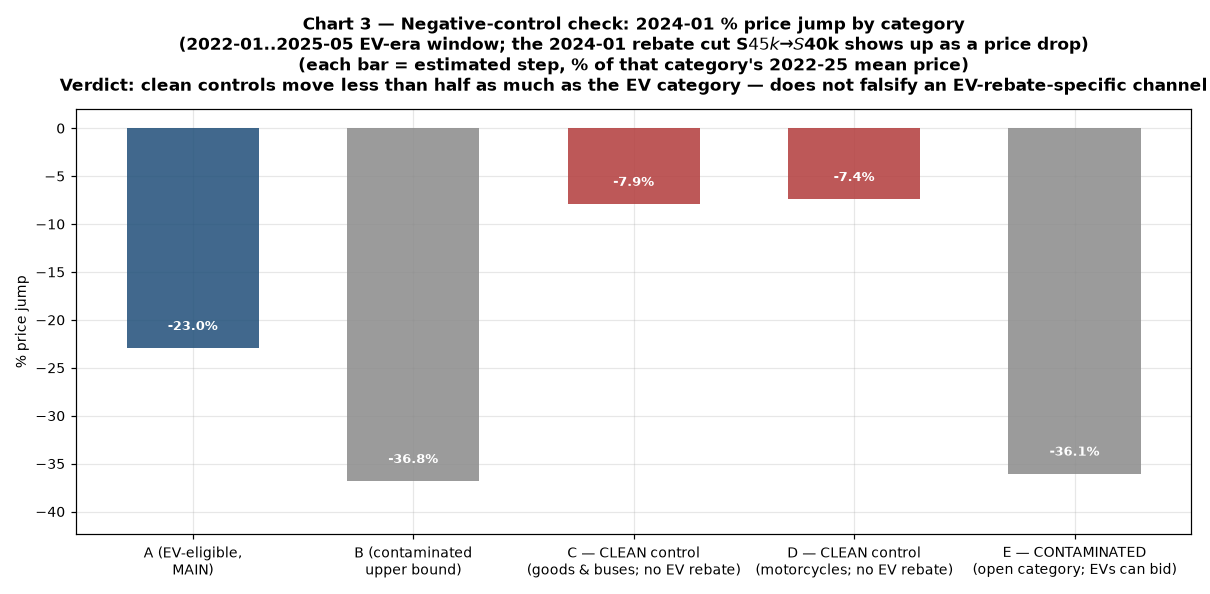
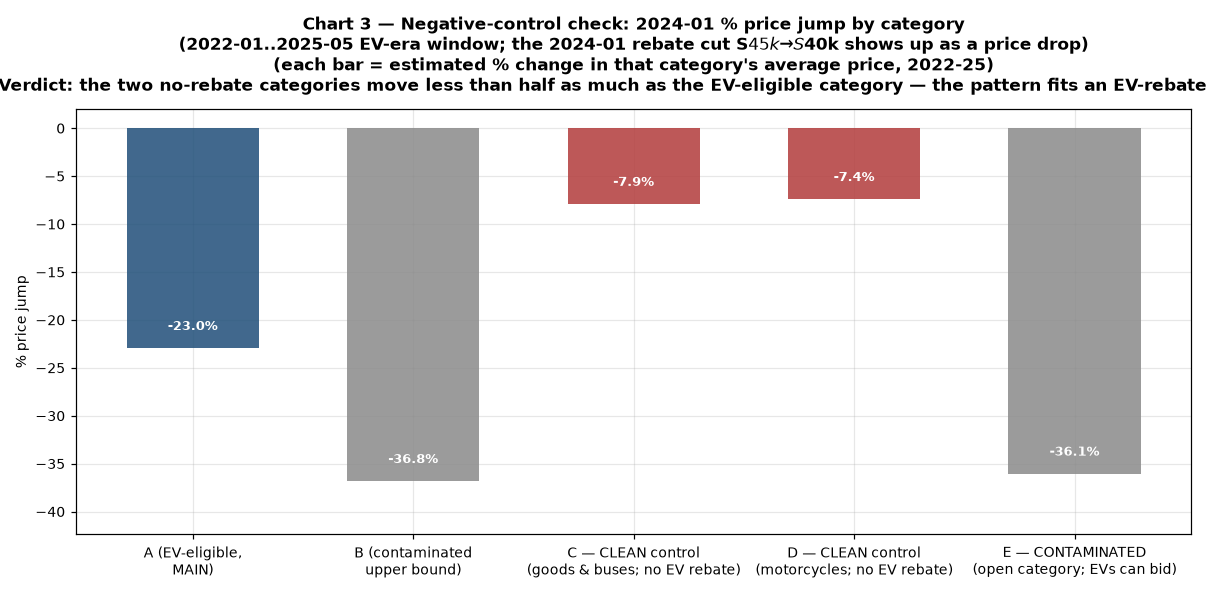
Plain language: replace 'step' and 'falsify' in README and chart titles
- README: 'rebate step' -> 'change to the rebate' (x5), 'the step itself'
  -> 'the Jan 2024 cut itself', 'for each step' -> 'for each link in the
  chain', 'the three rebate steps' -> 'the three changes to the rebate amount'
- Figure 3 verdict: 'clean controls do not falsify the EV-specific reading'
  -> plain explanation of what the pattern does and does not show
- Charts 2/3/7/8 titles: same replacements ('estimated % change in that
  category's average price', 'each link in the chain', 'EV-era rebate change')

Changed region(s): [[0.0, 0.0909, 1.0, 0.1515]]

diff --git a/src/13_charts.py b/src/13_charts.py
@@ -241,8 +241,8 @@ def _nc_verdict(nc: pd.DataFrame, term: str, scope: str) -> str:
     if abs(c) >= 0.5 * abs(a) and abs(d) >= 0.5 * abs(a):
         return ("market-wide common shock: both clean controls move at least "
                 "half as much as the EV category (NOT EV-rebate-specific)")
-    return ("clean controls move less than half as much as the EV category — "
-            "does not falsify an EV-rebate-specific channel")
+    return ("the two no-rebate categories move less than half as much as the "
+            "EV-eligible category — the pattern fits an EV-rebate effect")
 
 
 def chart02() -> None:
@@ -257,8 +257,8 @@ def chart02() -> None:
     _nc_panel(ax, nc, "reg_arffloor_zero_202201")
     ax.set_title(
         "Chart 2 — Negative-control check: 2022-01 % price jump by category\n"
-        "(full 2016-01..2025-05 window; each bar = estimated step, % of that "
-        "category's 2016-25 mean price; the 2022-01 change was a $0 ARF-floor "
+        "(full 2016-01..2025-05 window; each bar = estimated % change in that "
+        "category's average price; the 2022-01 change was a $0 ARF-floor "
         "TAX, not a rebate)\n"
         f"Verdict: {verdict}",
         pad=12,
@@ -288,7 +288,7 @@ def chart03() -> None:
         "Chart 3 — Negative-control check: 2024-01 % price jump by category\n"
         "(2022-01..2025-05 EV-era window; the 2024-01 rebate cut "
         "S$45k → S$40k shows up as a price drop)\n"
-        "(each bar = estimated step, % of that category's 2022-25 mean price)\n"
+        "(each bar = estimated % change in that category's average price, 2022-25)\n"
         f"Verdict: {verdict}",
         pad=12,
     )
@@ -544,7 +544,7 @@ def chart07() -> None:
     ax.axis("off")
     ax.set_title(
         "Chart 7 — Does the rebate push prices up via more bidding?\n"
-        "Each step: what we should see if the hypothesis were true, and what we actually see",
+        "Each link in the chain: what we should see if the hypothesis were true, and what we actually see",
         fontsize=10.5,
     )
 
@@ -643,7 +643,7 @@ def chart08() -> None:
          "(effective May 2022)"),
         ("2024-01_eeai_cap15k_step",
          "Event 5 — EEAI cap cut S$20k -> S$15k (2024-01): rebate S$45k -> S$40k "
-         "(verified; the EV-era step)"),
+         "(verified; the EV-era rebate change)"),
     ]
     fig, axes = plt.subplots(5, 1, figsize=(11, 16), sharex=True)
     for ax, (ep, title) in zip(axes, episodes):

diff --git a/README.md b/README.md
@@ -31,7 +31,7 @@ The honest result has two parts:
   did, and C moved the other way (Figure 2). That split means the test is
   inconclusive on its own — but the decisive fact is that what changed in
   Jan 2022 was a tax rule (electric cars' minimum registration tax dropped
-  to zero), not a rebate step; the separate 97→110 kW category threshold
+  to zero), not a change to the rebate; the separate 97→110 kW category threshold
   change followed in May 2022. The estimated Jan 2022 price effect is
   +S$3,700 (95% CI −S$180 to +S$7,600; p = 0.061) — not statistically
   robust, so it can't be credited to the rebates either way.
@@ -139,7 +139,7 @@ fact more (+13.1% vs +6.4%) — while C moved the other way (−11.4%)**
 shock, and it can't establish an EV-specific cause either (the "open"
 category E, where EV cars may also bid, moved with the car categories at
 +11.8% — as expected). The decisive facts are that the Jan 2022 change
-was a *tax rule*, not a rebate step, and that the estimated 2022-01
+was a *tax rule*, not a change to the rebate, and that the estimated 2022-01
 effect is not statistically robust (p = 0.061).
 
 **Figure 2.** The negative-control test for the 2022 jump: estimated 2022-01
@@ -151,7 +151,7 @@ effect is not statistically robust (p = 0.061).
 jumped more than A (+13.1% vs +6.4%), C (goods & buses) moved the other
 way (−11.4%) — so the jump is neither a clean market-wide signal nor a
 clean EV-specific one. Because the Jan 2022 change was a tax rule rather
-than a rebate step, the move is not credited to the EV rebate. B
+than a change to the rebate, the move is not credited to the EV rebate. B
 (high-power EVs) and E (open; EV cars can bid) moved with the car
 categories, as expected.*
 
@@ -179,7 +179,7 @@ within it, so the statistics have something to work with. In that window
   (95% CI S$2,060 to S$6,120; p = 0.00008; p = 0.0000009 with
   autocorrelation-robust standard errors; inflation-adjusted:
   +S$4,141 per S$1,000, 95% CI S$2,104 to S$6,178, p = 0.00007).
-  Stated as the step itself: the Jan 2024 cut is associated with a price
+  Stated in terms of the Jan 2024 cut itself: it is associated with a price
   change of −S$20,449 (95% CI −S$30,602 to −S$10,297; p = 0.00008).
 - The rebate-free categories (C goods & buses, D motorcycles) did **not**
   show the same 2024 move (−7.9% and −7.4% vs −23.0% for A; Figure 3),
@@ -196,11 +196,13 @@ drop), each measured over the 2022–2025 window.
 
 ![Negative-control check: 2024-01 % price jump by car category (2022+ EV era; the 2024-01 rebate cut shows up as a price drop)](charts/03_negative_control_2024.png)
 
-*Verdict: clean controls do not falsify the EV-specific reading. The 2024
-cap cut drops prices in the EV-eligible car channels (A −23.0%, B −36.8%,
-open E −36.1%), while the two rebate-free categories (C −7.9%, D −7.4%)
-move less than a third as much — consistent with the 2024 move being
-EV-rebate-related.*
+*Verdict: the pattern fits an EV-rebate effect. The 2024 cap cut dropped
+prices sharply in the car categories where EV rebates apply (A −23.0%,
+B −36.8%, and the open category E, where EV cars may also bid, −36.1%),
+but only mildly in the two categories with no EV rebate at all (C −7.9%,
+D −7.4%) — less than a third as much. This doesn't prove the rebate
+caused the drop, but a market-wide cause would have hit the no-rebate
+categories just as hard.*
 
 ### 4.3. Rebates did not drive more bidding demand
 
@@ -312,23 +314,23 @@ study does find — the one in the EV era — is therefore not being carried
 by more bidding.
 
 **Figure 7.** The hypothesized chain — rebate → bidding demand → price —
-with, for each step, what we should see if the hypothesis were true and
+with, for each link in the chain, what we should see if the hypothesis were true and
 what we actually see.
 
-![The hypothesized chain: rebate → bidding demand → price; for each step, the prediction if the hypothesis were true and the observed result](charts/07_mediation_diagram.png)
+![The hypothesized chain: rebate → bidding demand → price; for each link, the prediction if the hypothesis were true and the observed result](charts/07_mediation_diagram.png)
 
 *The chain check from section 4.6: each arrow shows what we would
 expect if the hypothesis were true and what the data show (p-values as
 labeled); the box below shows the share of the rebate's price effect
 routed via bidding, in each time window. Coefficients and confidence
-intervals for every step: report §3.2 (bidding channel) and §3.4
+intervals for every link: report §3.2 (bidding channel) and §3.4
 (mediation).*
 
 ### 4.7. Looking at each policy change individually doesn't help either
 
 An "event study" examines prices around each of the five verified policy
-changes (the three rebate steps plus the Jan 2022 tax and the May 2022
-threshold). Every single one shows the price was already drifting in that
+changes (the three changes to the rebate amount, plus the Jan 2022 tax
+and the May 2022 threshold). Every single one shows the price was already drifting in that
 direction *before* the policy started (Figure 8) — the signature of the
 long-run COE price trend (plus the pandemic-era dip in 2020), not of the
 policy itself. The estimated effects are therefore reported as bounds,
@@ -381,8 +383,8 @@ means the bin runs beyond the displayed window).*
   prices or bidding across the decade; the 2022 price jump showed up in
   a rebate-free category too (D motorcycles, more than in A), while the
   other rebate-free category (C) moved the other way — the test is mixed,
-  and the 2022 change was a tax rule, not a rebate step; prices and
-  bidding demand are weakly related; the via-bidding chain is broken; EV
+  and the 2022 change was a tax rule, not a change to the rebate; prices
+  and bidding demand are weakly related; the via-bidding chain is broken; EV
   adoption more than tripled but did not track the rebate level — it kept
   rising after the Jan 2024 cut.
 - **Can't claim:** a precise "rebates raise prices by X" number. The
